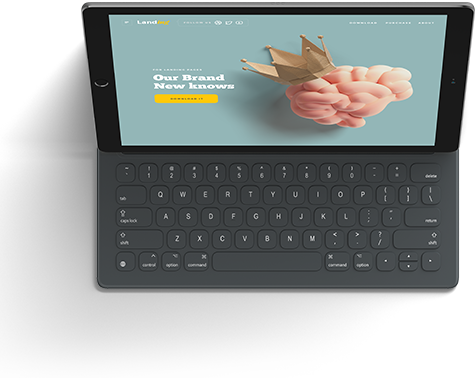
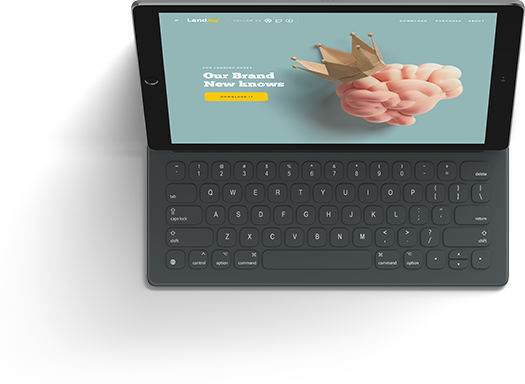
service_3

diff --git a/index.html b/index.html
@@ -186,7 +186,7 @@
                         <div class="col-sm-6">
                             <div class="service-description__block-text">
                                 <h3>Хостинг для фрилансеров</h3>
-                                <p>Lorem ipsum dolor sit amet, consectetur adipisicing elit, sed do eiusmod tempor incididunt ut labore et dolore magna aliqua. Ut enim ad minim veniam, quis nostrud exercitation ullamco laboris nisi ut aliquip ex ea commodo consequat.<br><br>Duis aute irure dolor in reprehenderit in voluptate velit esse cillum dolore eu fugiat nulla pariatur. </p>
+                                <p>Lorem ipsum dolor sit amet, consectetur adipisicing elit, sed do eiusmod tempor incididunt ut labore et dolore magna aliqua. Ut enim ad minim veniam, quis nostrud exercitation ullamco laboris nisi ut aliquip ex ea commodo consequat.</p><p>Duis aute irure dolor in reprehenderit in voluptate velit esse cillum dolore eu fugiat nulla pariatur. </p>
                                 <a class="service-description__block-link" href="#"></a>
                             </div>
                         </div>
@@ -208,7 +208,7 @@
                         <div class="col-sm-6 col-sm-pull-6 col-lg-pull-5">
                             <div class="service-description__block-text service-description__block-text--special">
                                 <h3>Тариф для стартапов</h3>
-                                <p>Lorem ipsum dolor sit amet, consectetur adipisicing elit, sed do eiusmod tempor incididunt ut labore et dolore magna aliqua. Ut enim ad minim veniam, quis nostrud exercitation ullamco laboris nisi ut aliquip ex ea commodo consequat.<br><br>Duis aute irure dolor in reprehenderit in voluptate velit esse cillum dolore eu fugiat nulla pariatur. </p>
+                                <p>Lorem ipsum dolor sit amet, consectetur adipisicing elit, sed do eiusmod tempor incididunt ut labore et dolore magna aliqua. Ut enim ad minim veniam, quis nostrud exercitation ullamco laboris nisi ut aliquip ex ea commodo consequat.</p><p>Duis aute irure dolor in reprehenderit in voluptate velit esse cillum dolore eu fugiat nulla pariatur. </p>
                                 <a class="service-description__block-link" href="#"></a>
                             </div>
                         </div>

diff --git a/less/section/_service-description.less b/less/section/_service-description.less
@@ -3,7 +3,6 @@
 }
 .service-description__block{
 	padding-top:  50px;
-	padding-bottom: 50px;
 	border-top: solid 1px #DCDCDC;
 	border-bottom: solid 1px #DCDCDC;
 	@media (min-width: 1200px){
@@ -16,6 +15,7 @@
 .service-description__block-text{
 	display: block;
 	margin-top: 10px;
+	padding-bottom: 50px;
 	position: relative;
 	@media (min-width: 768px){
 		margin-top: 40px;
@@ -49,6 +49,7 @@
 }
 .service-description__block-img{
 	text-align: center;
+	position: relative;
 	@media (min-width: 768px){
 		text-align: left;
 		margin-top: 40px;
@@ -60,15 +61,22 @@
 	& img{
 		display: inline-block;
 		width: 100%;
-		max-width: 475px;
+		max-width: 525px;
 		@media (min-width: 768px){
 			padding-top: 7px;
 		}
 		@media (min-width: 1200px){
+			position: absolute;
 			padding-top: 17px;
+			left:-50px;
 		}
 	}
 }
+// .service-description__block-img--push{
+// 	@media (min-width: 1200px){
+// 		position: relative;
+// 	}
+// }
 .service-description__block-img--special{
 	@media (min-width: 768px){
 		margin-top: 0px;

diff --git a/css/main.css b/css/main.css
@@ -426,7 +426,6 @@
 }
 .service-description__block {
   padding-top: 50px;
-  padding-bottom: 50px;
   border-top: solid 1px #DCDCDC;
   border-bottom: solid 1px #DCDCDC;
 }
@@ -441,6 +440,7 @@
 .service-description__block-text {
   display: block;
   margin-top: 10px;
+  padding-bottom: 50px;
   position: relative;
 }
 @media (min-width: 768px) {
@@ -478,6 +478,7 @@
 }
 .service-description__block-img {
   text-align: center;
+  position: relative;
 }
 @media (min-width: 768px) {
   .service-description__block-img {
@@ -493,7 +494,7 @@
 .service-description__block-img img {
   display: inline-block;
   width: 100%;
-  max-width: 475px;
+  max-width: 525px;
 }
 @media (min-width: 768px) {
   .service-description__block-img img {
@@ -502,7 +503,9 @@
 }
 @media (min-width: 1200px) {
   .service-description__block-img img {
+    position: absolute;
     padding-top: 17px;
+    left: -50px;
   }
 }
 @media (min-width: 768px) {
